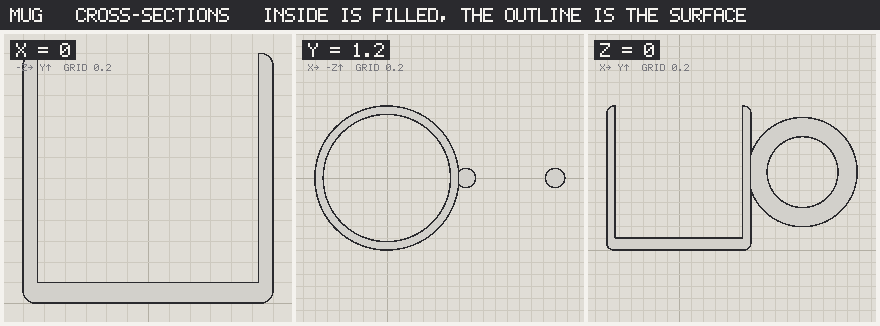
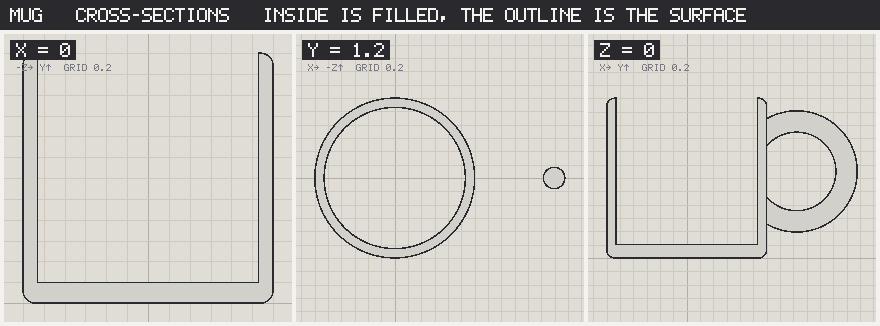
The mug's handle back where it was, with the cup cut out of it
Moving the ring outward so its inner edge sat in the wall kept the cup
clean but left a ring hanging off the side by one point, too far out
to read as a handle. The ring goes back to its original position,
through the wall, and the cavity is subtracted from it: what remains is
a C joined to the wall at two heights, nothing inside the cup, and the
same two promises hold (void(cavity, mug), and the handle shares 0.03
of volume with the wall rather than a touch). The README's copy too.

Claude-Session: https://claude.ai/code/session_01N4aZPpcvrkPPm1NLagjFQU

diff --git a/README.md b/README.md
@@ -14,7 +14,7 @@ r = 1.2
 body = cylinder(r=r, h=2.4, round=0.12) | move(0, 1.2, 0)
 cavity = cylinder(r - 0.14, 2.4) | move(0, 1.4, 0)
 cup = body - cavity
-handle = torus(0.75, 0.16) | rotate(x=90) | move(r - 0.05 + 0.75 + 0.16, 1.3, 0)
+handle = (torus(0.75, 0.16) | rotate(x=90) | move(r + 0.45, 1.3, 0)) - cavity
 mug = (cup + handle) | paint("porcelain")
 show mug
 
